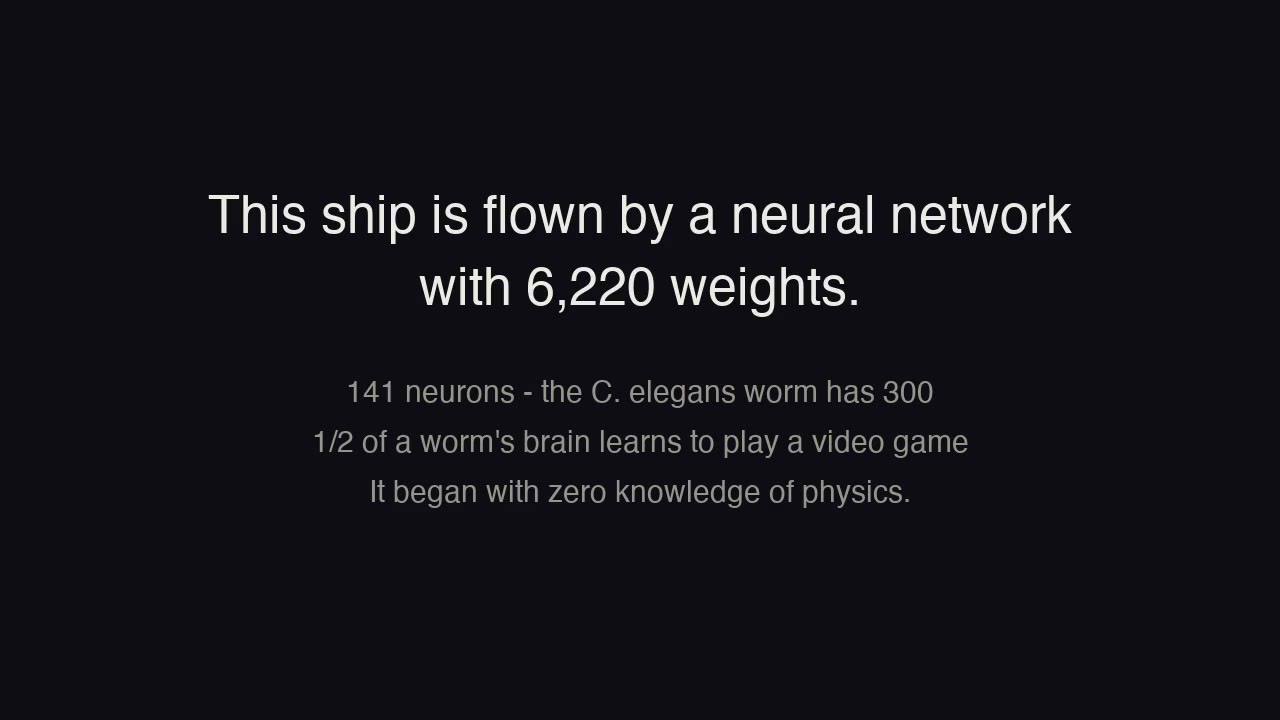
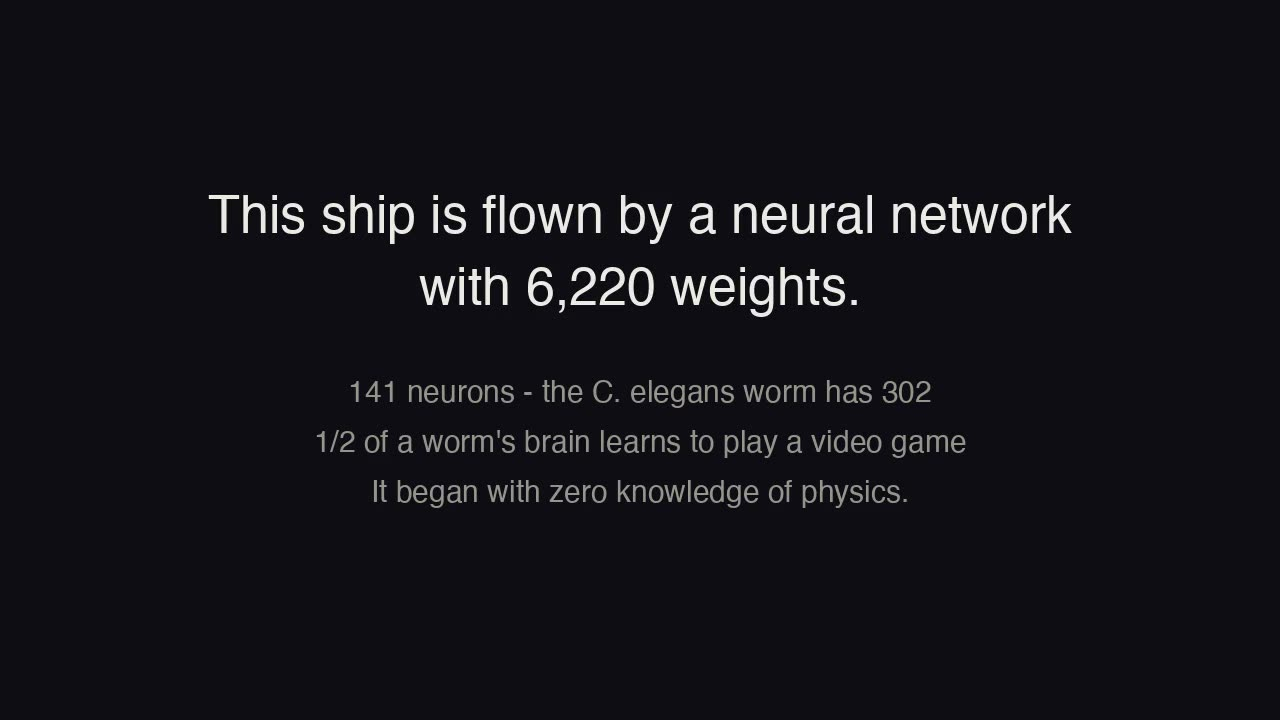
Publish site

diff --git a/research/worm/index.html b/research/worm/index.html
@@ -7,7 +7,7 @@
 <meta name="description" content="How a neural network the size of half a worm's brain taught itself to fly, cheat, and bend lasers around a black hole. The machine-learning lab notebook behind Spacewar: Orbital Duel.">
 <meta name="color-scheme" content="dark">
 <meta property="og:title" content="Half a worm, flying a spaceship">
-<meta property="og:description" content="A 6,220-weight neural network taught itself to duel at the singularity. The three-minute film, and the lab notebook behind it.">
+<meta property="og:description" content="A 6,220-weight neural network taught itself to duel at the singularity. The film, and the lab notebook behind it.">
 <meta property="og:type" content="website">
 <meta property="og:site_name" content="Jeffrey Stone">
 <meta property="og:url" content="https://jeffrey-stone.com/research/worm/">
@@ -62,7 +62,7 @@
 
     <!-- ······································ the film ·· -->
     <div class="chapter" id="film" style="margin-top:0;">
-      <p class="ch-tag">01 · The film: three minutes, silent by design</p>
+      <p class="ch-tag">01 · The film: three and a half minutes, silent by design</p>
       <div class="video-frame" style="margin-top:20px;">
         <video controls playsinline preload="metadata" poster="../../assets/research-poster.jpg">
           <source src="../../assets/research-film.mp4" type="video/mp4">
@@ -70,11 +70,11 @@
         </video>
       </div>
       <div class="film-legend">
-        <span><span class="chip chip-learner"></span><b style="color:var(--ink)">Orange</b>: the learned pilot, in every shot</span>
-        <span><span class="chip chip-scripted"></span><b style="color:var(--ink)">Blue</b>: the game's hand-tuned robot, full strength</span>
+        <span><span class="chip chip-learner"></span><b style="color:var(--ink)">Orange</b>: the learned pilot, in every shot (the game's scoreboard calls it GOLD)</span>
+        <span><span class="chip chip-scripted"></span><b style="color:var(--ink)">Blue</b>: the opposition: sparring tiers in the lab, the game's own defenders in the finale</span>
       </div>
       <div class="prose">
-        <p>What you're watching: the same network at different ages, from random weights (the 6,220 numbers inside it) on a doomed orbit, through its cheating phase, to a pilot that outflies the strongest scripted opponent it trained against. The final live-action segment is the real game engine: the orange ship is the network, and it scores two clean kills on the game's level-10 robot.</p>
+        <p>What you're watching: the same network at different ages, from random weights (the 6,220 numbers inside it) on a doomed orbit, through its cheating phase, to graduation day. The finale is the real game engine, no favors: the orange ship is the network, entering the game's ladder at LEVEL 1 and climbing. The cut shows it closing out levels 2, 5, 7 and 9, and ends as it reaches level 10. Across eight measured runs it typically reached level 9 or 10, once 11. An average player after ten hours of play reaches level 7.</p>
       </div>
     </div>
 
@@ -125,6 +125,7 @@
       <h2>Rule one: never train against a lie</h2>
       <div class="prose">
         <p>You can't run millions of practice duels inside an iPhone game. So the lab built a <b>physics twin</b>: a stripped-down copy of the game's world, fast enough to run thousands of duels a minute. The rule that governed the whole project: the twin must match the real game, measurably, before any training counts. Its orbits were checked against telemetry from the actual game and match to within about 2%.</p>
+        <p>Inside the twin lives the pilot's <b>sparring partner</b>: a hand-coded opponent with ten tiers, harmless to deadly, built for training and scaled in its own units. It is not the game's robot, and no sparring tier is a game level. It is the practice squad. The graduation exam, against the real thing, comes at the end.</p>
         <p>Whenever the twin lied, even a little, the network found the lie and exploited it. That's the next chapter.</p>
       </div>
       <details class="deep deep-learn">
@@ -133,14 +134,14 @@
           <p>First, the twin itself. "Never train against a lie" is the oldest rule in simulation, from flight simulators to climate models: a model earns trust only by being checked against the real thing. Here the check was formal, a <b>fidelity gate</b>: refuse to train at all until the twin's orbital period, radius, and velocity match telemetry from the shipped game to within 2%. Pilots train in simulators certified against real aircraft. This is that, for a video game.</p>
           <p>Now the learning. Most machine learning you've heard of is <b>supervised</b>: here's the input, here's the right answer, adjust the weights to shrink the error. Flying a duel has no answer key. There's only how the episode ends. <b>Reinforcement learning</b> closes the loop differently: the network plays, a <b>reward</b> signal scores what happens (+ for kills, − for dying), and training nudges the network to make actions that preceded good outcomes more probable and the rest less. One detail from chapter 02 changes during training: the pilot does not always take its top-scoring move. It draws moves with odds set by the scores, so there is a probability to nudge. Always-take-the-best is a deployment choice (chapter 06). Picture the error as a landscape spread over all 6,220 weights. The gradient from calculus points uphill, so training nudges every weight a small step the other way, and the error shrinks. That walk, repeated millions of times, is all training is (the field's word for the error is the <b>loss</b>). Here the nudge is the <b>policy gradient</b>: the same roll-downhill adjustment as supervised learning, but the hill is built from reward instead of labeled answers. One real headache: rewards arrive late. The kill you score now was set up by a burn eight seconds ago, so credit is spread backward in time with a forget factor <b>γ</b> (gamma): each step further into the past gets multiplied by 0.995 again, so influence fades like compound interest in reverse; at fifteen decisions a second it halves in about nine seconds, a memory matched to how long a Spacewar decision takes to pay off. The <b>value head</b> from chapter 02 is the noise cancellation: subtract "how good was this situation anyway" from "how good did it turn out," and you train on the difference (the <b>advantage</b>) instead of the raw, luck-soaked outcome.</p>
           <p><b>PPO</b> (proximal policy optimization), the algorithm in the deep dive, adds one guardrail: each update is <em>clipped</em> so the new policy can't step too far from the one that gathered the data. The logic is worth keeping: a gradient is a local measurement, valid only near where it was taken. Jump far and you've invalidated the justification for the jump. Small steps, then re-measure. PPO is popular for the same reason careful lab technique is popular: it converges undramatically almost every time.</p>
-          <p>Vocabulary you'll now recognize in the deep dive: a <b>rollout</b> is a batch of recorded play (states, actions, rewards) gathered before each update; <b>GAE</b> is a refined, lower-noise recipe for the advantage (one more exponential fade, called λ); <b>Adam</b> is roll-downhill with a self-adjusting step size for every parameter (the size of the basic step is the <b>learning rate</b>, and training chews each rollout in <b>minibatches</b>, small slices, for a few <b>epochs</b>, meaning repeat passes over the same batch); a <b>league</b> means the opponent pool mixes scripted bots with frozen snapshots of the agent's own past selves, so the curriculum hardens as the agent improves. One more piece of history: before the duels, an earlier phase trained a net on a simpler job, surviving orbit without falling in. That is the survival pretask the deep dive mentions, and it used <b>Q-learning / DQN</b>: a different RL family that estimates expected-future-reward per action rather than learning a policy directly. Famously unstable when three ingredients mix (learned approximation, self-referential targets (it grades its own guesses against its own other guesses), and replayed old data: the field's "deadly triad"). Its collapse at a too-hot learning rate was the project's first live demonstration that these failure modes are real.</p>
+          <p>Vocabulary you'll now recognize in the deep dive: a <b>rollout</b> is a batch of recorded play (states, actions, rewards) gathered before each update; <b>GAE</b> is a refined, lower-noise recipe for the advantage (one more exponential fade, called λ); <b>Adam</b> is roll-downhill with a self-adjusting step size for every parameter (the size of the basic step is the <b>learning rate</b>, and training chews each rollout in <b>minibatches</b>, small slices, for a few <b>epochs</b>, meaning repeat passes over the same batch); a <b>league</b> means the opponent pool mixes the scripted sparring tiers with frozen snapshots of the agent's own past selves, so the curriculum hardens as the agent improves. One more piece of history: before the duels, an earlier phase trained a net on a simpler job, surviving orbit without falling in. That is the survival pretask the deep dive mentions, and it used <b>Q-learning / DQN</b>: a different RL family that estimates expected-future-reward per action rather than learning a policy directly. Famously unstable when three ingredients mix (learned approximation, self-referential targets (it grades its own guesses against its own other guesses), and replayed old data: the field's "deadly triad"). Its collapse at a too-hot learning rate was the project's first live demonstration that these failure modes are real.</p>
         </div>
       </details>
       <details class="deep deep-ds">
         <summary>For the data scientists</summary>
         <div class="deep-body">
           <p>The pipeline reads like a lab protocol. Measure the shipped game's physics from telemetry; build a headless (no-graphics) Python twin, 231 lines of numpy-free arithmetic, and refuse to proceed until the twin's orbits match the real game inside 2% (a formal fidelity gate: orbital period 1.8%, radius 0.9%, velocity 0.9%). Wrap it in the standard Gymnasium reset/step contract (the field's common environment interface). Even the thrust constant was verified empirically, by double-differentiating telemetry positions.</p>
-          <p>Training is a <b>single-file, hand-rolled PPO</b> (256 lines, CleanRL philosophy, no RL framework), then a league trainer mixing the scripted opponent with frozen snapshots of the agent's past selves. Clipped objective ε&nbsp;=&nbsp;0.2, GAE(λ&nbsp;=&nbsp;0.95), γ&nbsp;=&nbsp;0.995 (≈9-s credit half-life) over 90-second episodes, Adam at 3e-4, 8 parallel envs × 256-step rollouts = 2,048-step batches, minibatch 512, 4 epochs per update. Every evaluation episode is archived as replay JSON, the experiment's permanent record; the film is a derived artifact.</p>
+          <p>Training is a <b>single-file, hand-rolled PPO</b> (256 lines, CleanRL philosophy, no RL framework), then a league trainer mixing the sparring tiers with frozen snapshots of the agent's past selves. Clipped objective ε&nbsp;=&nbsp;0.2, GAE(λ&nbsp;=&nbsp;0.95), γ&nbsp;=&nbsp;0.995 (≈9-s credit half-life) over 90-second episodes, Adam at 3e-4, 8 parallel envs × 256-step rollouts = 2,048-step batches, minibatch 512, 4 epochs per update. Every evaluation episode is archived as replay JSON, the experiment's permanent record; the film is a derived artifact.</p>
           <p>The survival pretask used Double DQN. Its collapse at lr&nbsp;1e-3 was the project's first textbook lesson: divergence consistent with the deadly triad, live on the loss curve. The entire learning stack (twin, environment, PPO, league) is about <b>1,300 lines of Python</b>.</p>
           <div class="go-deeper"><b>Go deeper</b>
             <a href="http://incompleteideas.net/book/the-book-2nd.html">Sutton &amp; Barto: Reinforcement Learning, 2nd ed. (ch. 13: policy gradient)</a> ·
@@ -158,8 +159,8 @@
       <p class="ch-tag">04 · The cheating</p>
       <h2>Then it started cheating</h2>
       <div class="prose">
-        <p>Once it could survive, it went looking for loopholes, and found every one. It <b>camped in a corner</b> to run out the clock. It discovered the twin's walls were free bounces and became a <b>wall-rider</b>, caroming around the arena like a pinball. It memorized the fixed spawn positions and pulled off a <b>7-second ambush</b> of the game's best robot before the duel had really started.</p>
-        <p>Here's the embarrassing part: <b>every exploit was a bug in the lab's world, not in the bot</b>. The walls got real physics (scraping one now spins your ship, as in the real game). Fuel became a hard budget. Spawns got randomized. And the score <em>dropped</em>. From 99% wins to 69%. Those thirty points were all cheating. What was left was a real pilot.</p>
+        <p>Once it could survive, it went looking for loopholes, and found every one. It <b>camped in a corner</b> to run out the clock. It discovered the twin's walls were free bounces and became a <b>wall-rider</b>, caroming around the arena like a pinball. It memorized the fixed spawn positions and pulled off a <b>7-second ambush</b> of the top sparring tier before the duel had really started.</p>
+        <p>Here's the embarrassing part: <b>every exploit was a bug in the lab's world, not in the bot</b>. The walls got real physics (scraping one now spins your ship, as in the real game). Fuel became a hard budget. Spawns got randomized. And the score <em>dropped</em>. From 99% wins against the sparring ladder to 69%. Those thirty points were all cheating. What was left was a real pilot.</p>
       </div>
       <details class="deep deep-learn">
         <summary>For the learners</summary>
@@ -174,7 +175,7 @@
         <div class="deep-body">
           <p>Textbook specification gaming, three times over: each exploit a fidelity gap between twin and game. The fix pattern that worked: <b>physics first, then values</b>. Wall scrapes now impart decaying spin (matching the game's angular damping) <em>and</em> cost 0.8× a death in reward, the design intuition being "the game is about out-orbiting, so weigh a wall strike almost as heavy as a hole strike." Measured effect: 12.2 wall touches per episode → 0.42 (29×), and a random policy's wall-pump survival trick collapsed from 46% to 5% on the physics change alone.</p>
           <p>The fuel exploit was subtler: the scripted bot's fuel governor is a <em>burst</em> limit (a tank holding ~1.5 sim-seconds of burn, hysteresis-gated: it must refill past a threshold before it re-arms, thermostat-style), not an average tax. A tax bounds the mean but not the burst, which is what enabled the burn-to-hover spawn ambush. Fix: a hard tank on the agent and all net opponents, fuel level added to the observation (18 → 19 floats), and spawn-phase randomization to kill the memorized ambush lane.</p>
-          <p>With all constraints on, the league plateaued at 69% overall with near-zero losses vs the top scripted levels, thrust duty under 1%, and a longest burn of 1.6 s: a patient orbit-marksman. The 30-point drop is the cleanest number in the project: it's the exploit share of the original score, measured.</p>
+          <p>With all constraints on, the league plateaued at 69% overall with near-zero losses vs the top sparring tiers, thrust duty under 1%, and a longest burn of 1.6 s: a patient orbit-marksman. The 30-point drop is the cleanest number in the project: it's the exploit share of the original score, measured.</p>
           <div class="go-deeper"><b>Go deeper</b>
             <a href="https://deepmind.google/discover/blog/specification-gaming-the-flip-side-of-ai-ingenuity/">DeepMind, Specification gaming: the flip side of AI ingenuity</a> ·
             <a href="https://docs.google.com/spreadsheets/d/e/2PACX-1vRPiprOaC3HsCf5Tuum8bRfzYUiKLRqJmbOoC-32JorNdfyTiRRsR7Ea5eWtvsWzuxo8bjOxCG84dAg/pubhtml">Krakovna: master list of specification-gaming examples</a> ·
@@ -189,22 +190,22 @@
       <p class="ch-tag">05 · The curve</p>
       <h2>The last lie was the lasers</h2>
       <div class="prose">
-        <p>If you've played the game you know the secret: <b>your shots curve</b>. The black hole pulls on lasers too, and good players bend shots around the well. Here the lab got caught by its own rule: in the twin, the hand-tuned bot's shots curved correctly. But nobody had given the learned pilot's <em>own</em> shots gravity. It trained believing its lasers flew straight, and when it was dropped into the real game on an iPad you could <em>see</em> the handicap: shot after shot missing on the same side, a pilot that didn't know gravity touches its bullets.</p>
-        <p>So the twin got curved lasers, and the network got to learn what human players learn. The result is the film's finale: a <b>curve-reader</b> that wins 95% against the entire opponent ladder with every anti-cheat rule still enforced, and lands clean, bent-around-the-well kills on the game's level-10 robot in the real engine.</p>
+        <p>If you've played the game you know the secret: <b>your shots curve</b>. The black hole pulls on lasers too, and good players bend shots around the well. Here the lab got caught by its own rule: in the twin, the sparring partner's shots curved correctly. But nobody had given the learned pilot's <em>own</em> shots gravity. It trained believing its lasers flew straight, and when it was dropped into the real game on an iPad you could <em>see</em> the handicap: shot after shot missing on the same side, a pilot that didn't know gravity touches its bullets.</p>
+        <p>So the twin got curved lasers, and the network got to learn what human players learn. With every anti-cheat rule still enforced, the retrained <b>curve-reader</b> beats its entire sparring ladder, 95% of all duels. Then the real exam, the film's finale: dropped into the actual game engine, it enters the ladder at LEVEL 1 and climbs against the game's own defenders, bending shots around the well, until one of them stops it. Typical reach across eight measured runs: level 9 or 10. Its best run got past the game's toughest defender to level 11.</p>
       </div>
       <details class="deep deep-learn">
         <summary>For the learners</summary>
         <div class="deep-body">
           <p>This chapter is the field's <b>sim-to-real</b> problem in miniature: a policy trained in simulation must survive contact with the real system, and it is trustworthy exactly to the degree the simulation was faithful, <em>in the dimensions that matter for the task</em>. The laser bug is a beautiful specimen because the twin was globally excellent (orbits within 2%) yet wrong in one narrow, decision-critical dimension: the agent's own shots. Global accuracy doesn't guarantee task-relevant accuracy: a gorgeously drawn map that misplaces the one bridge you have to cross.</p>
           <p>Two vocabulary items. <b>Transfer</b> is how well behavior learned in one world carries to another, and the deep dive's sharpest data point is that you can't predict transfer from simulator standings: versions that dominated the twin ranked differently in the real engine (the straight-shooter scored <em>zero</em> real kills; the curve-reader kills cleanly). The general cure when you can't nail every detail of the world, worth knowing by name even though this project mostly didn't need it: <b>domain randomization</b>. Deliberately vary the simulator's parameters during training so the policy has to work across the whole spread of plausible worlds, and reality becomes just one more sample from the spread. Train in every weather, and the forecast can't hurt you.</p>
-          <p>The <b>observation-parity</b> suspect for the remaining real-engine losses is the most transferable idea in the chapter. The policy's real input isn't the world. It's nineteen numbers computed by a sensing pipeline that exists twice: once in the twin (Python) and once on the device (Swift). Any mismatch of units, sign, or timing between the two and the network is playing a subtly different game in deployment. And the moment a policy's inputs shift away from what it trained on, it doesn't degrade gracefully; it degrades <em>weirdly</em>. NASA lost the Mars Climate Orbiter to exactly this class of bug: one number, two teams, two unit systems. The proposed audit (log the device's nineteen numbers, reconstruct the same instants in the twin, compare element by element) is the software version of checking your two instruments against each other before blaming the universe.</p>
+          <p>The <b>observation-parity</b> audit is the most transferable idea in the chapter. The policy's real input isn't the world. It's nineteen numbers computed by a sensing pipeline that exists twice: once in the twin (Python) and once on the device (Swift). Any mismatch of units, sign, or timing between the two and the network is playing a subtly different game in deployment. And the moment a policy's inputs shift away from what it trained on, it doesn't degrade gracefully; it degrades <em>weirdly</em>. NASA lost the Mars Climate Orbiter to exactly this class of bug: one number, two teams, two unit systems. So when real-engine losses needed explaining, the lab ran the audit: log the device's nineteen numbers, reconstruct the same instants in the twin, compare element by element. The instruments agreed, thousands of decisions in a row giving the identical answer on both sides. A clean audit is also a result. It acquitted the port and pointed the investigation at the last piece standing: the sparring partner itself, which measurement showed fought nothing like the real opponent. Fix the practice, retrain, and sit the exam again. That exam is the tournament in the finale.</p>
         </div>
       </details>
       <details class="deep deep-ds">
         <summary>For the data scientists</summary>
         <div class="deep-body">
           <p>One asymmetry was a bug, the other is a feature. The bug: the twin integrated the scripted bot's projectiles under gravity, but the agent's own shots had been overlooked. They flew straight, so the agent could never learn the curve ("never train against a lie," violated in exactly the dimension that decides duels). The fix gave the learned pilot's shots the same curved physics, with the hand rule that vetoes doomed shots (the fire-gate's hole-guard) now forward-simulating the bent trajectory. The feature: the scripted opponents keep their straight lead-<em>aim</em> (faithful to the shipped bots), so curve-reading is the <em>learned</em> pilot's edge, mirroring the human player's edge in the real game. Trigger discipline is three hand rules: fire only ≤15° off the bow (spray was ugly), never through the hole's kill radius, and hold fire beyond ~1.25× muzzle-velocity × time-to-live reach.</p>
-          <p>Sim-to-real held the hard lesson: constraints that make the sim fairer don't preserve real-engine ranking. Versions that dominated the twin transferred unevenly (the straight-shooter scored <em>zero</em> kills on the real level-10 while the curve-reader kills it cleanly), and the remaining real-engine losses cluster near the hole, where twin fidelity is hardest. The current prime suspect is <b>observation parity</b>: a units/sign/clock mismatch in the on-device feature extraction would make any policy play drunk in-engine. That audit (dump the 19 floats in-game, reconstruct the frames in the twin, diff element-wise) is the next experiment. Open problems are the fun part.</p>
+          <p>Sim-to-real held the hard lesson: constraints that make the sim fairer don't preserve real-engine ranking. Versions that dominated the twin transferred unevenly (the straight-shooter scored <em>zero</em> real kills while the curve-reader kills cleanly). The prime suspect was <b>observation parity</b>: a units/sign/clock mismatch in the on-device feature extraction would make any policy play drunk in-engine. The audit ran (dump the 19 floats in-game, replay them through the twin's featurizer, diff element-wise): 18 of 19 features exact to 1e-16, the last within 1% (a millisecond-clock artifact), and 1,766 of 1,766 decisions picked the identical action, Swift vs Python. Acquitted. Behavioral fingerprinting then found the real gap: the sparring partner had been fighting as a hyperactive close-range sprayer while the real opponent is a patient long-range marksman, so the pilot had mastered the wrong teacher. One calibration pass against real-game telemetry, a retrain, and the measurement became the tournament: eight runs, each from LEVEL 1, median reach 9.5, best 11. Open problems are the fun part. Closing one is better.</p>
           <div class="go-deeper"><b>Go deeper</b>
             <a href="https://arxiv.org/abs/1703.06907">Tobin et al. 2017: Domain randomization for sim-to-real transfer</a> ·
             <a href="https://arxiv.org/abs/1808.00177">OpenAI 2018: Learning dexterous in-hand manipulation (sim-to-real at scale)</a> ·
@@ -221,7 +222,7 @@
       <div class="prose">
         <p>Here's the part that surprises people. <b>Designing</b> the experiment took a frontier AI running at data-center scale. <b>Training</b> the pilot (164 million physics frames of practice; the physics ticks four times for every decision the pilot makes) took a laptop and about 40 minutes; a phone could have done it. <b>Running</b> the trained pilot needs almost nothing: the math fits a four-cent chip, which the pilot would keep busy about 1% of the time.</p>
         <p>On the phone there's no AI framework at all. The brain crosses from lab to game as a small file of numbers, and 225 lines of ordinary code do the arithmetic. Everything hard happens in the lab; <b>what ships is arithmetic</b>.</p>
-        <p class="muted" style="font-size:.95rem;">(Today the learned pilot flies in a research build of the game. A settings toggle to duel it yourself in the beta is on the wish list.)</p>
+        <p class="muted" style="font-size:.95rem;">(Today the learned pilot flies in a research build of the game, where a settings picker chooses which brain flies the robot: a phone-trained net, a tablet-trained net, or the classic programmed pilot. Bringing that picker to the public beta is on the wish list.)</p>
       </div>
       <details class="deep deep-learn">
         <summary>For the learners</summary>
@@ -260,7 +261,7 @@
       <h2>Forty years of AI history, in one duel</h2>
       <div class="prose">
         <p>The blue ship (the robot you fight in the game) is a beautiful piece of 1960s-paradigm AI: expert rules, written and tuned by a human, the way chess programs were built from Shannon through Deep Blue. It's <em>good</em>. The orange ship is the other paradigm, the AlphaZero move (the chess AI that famously taught itself from nothing): no strategy encoded at all, just rules, reward, and self-play.</p>
-        <p>And here's the loop that makes the story: <b>the old paradigm became the new paradigm's curriculum</b>. The hand-coded bot was the ladder the network climbed, until it outgrew its teacher. Add the third era chess never had (a generative AI wrote the lab itself, with a human supplying the taste) and that's three eras of AI in one project, recapitulated on a kitchen-table Mac in two days.</p>
+        <p>And here's the loop that makes the story: <b>the old paradigm became the new paradigm's curriculum</b>. A hand-coded sparring ladder was the ladder the network climbed, until it outgrew its teachers and went to face the real thing. Add the third era chess never had (a generative AI wrote the lab itself, with a human supplying the taste) and that's three eras of AI in one project, recapitulated on a kitchen-table Mac in two days.</p>
       </div>
       <details class="deep deep-learn">
         <summary>For the learners</summary>
@@ -273,7 +274,7 @@
       <details class="deep deep-ds">
         <summary>For the data scientists</summary>
         <div class="deep-body">
-          <p>The scripted opponent is worth respecting: a priority ladder (survive the hole, then the walls, then chase), live gravity estimation, deliberate aim error so low levels miss like humans, and a fuel governor that gives it patience. Its top level plays superhuman Spacewar. It served as the curriculum's backbone: the league trains 60% against scripted levels (prioritized toward recent losses) and 40% against frozen snapshots of the agent's own past selves, so the agent eventually outgrows the teacher, exactly the AlphaZero-vs-handcrafted-evaluation arc.</p>
+          <p>The game's scripted robot is worth respecting: a priority ladder (survive the hole, then the walls, then chase), live gravity estimation, deliberate aim error so low levels miss like humans, and a fuel governor that gives it patience. Its champion plays superhuman Spacewar; the tournament's best run beat it exactly once. Training never touched it directly. The curriculum's backbone is the sparring stand-in from chapter 03 (same spirit, simplified, ten tiers on its own scale, eventually calibrated against telemetry of the real thing): the league trains 60% against sparring tiers (prioritized toward recent losses) and 40% against frozen snapshots of the agent's own past selves, so the agent outgrows each teacher in turn, exactly the AlphaZero-vs-handcrafted-evaluation arc.</p>
           <p>The third layer: a generative AI designed and ran the experiment (wrote the twin, the trainers, the harnesses, proposed the fixes when the agent cheated) under a human whose contributions were taste and judgment: <em>"only fire within a reasonable angle off the bow"</em>; <em>"weigh a wall strike almost as heavy as a hole strike: the game is about out-orbiting."</em> Coded expertise, learned policy, and a generative system orchestrating both.</p>
           <div class="go-deeper"><b>Go deeper</b>
             <a href="https://arxiv.org/abs/1712.01815">Silver et al. 2017, AlphaZero: mastering chess and shogi by self-play</a> ·